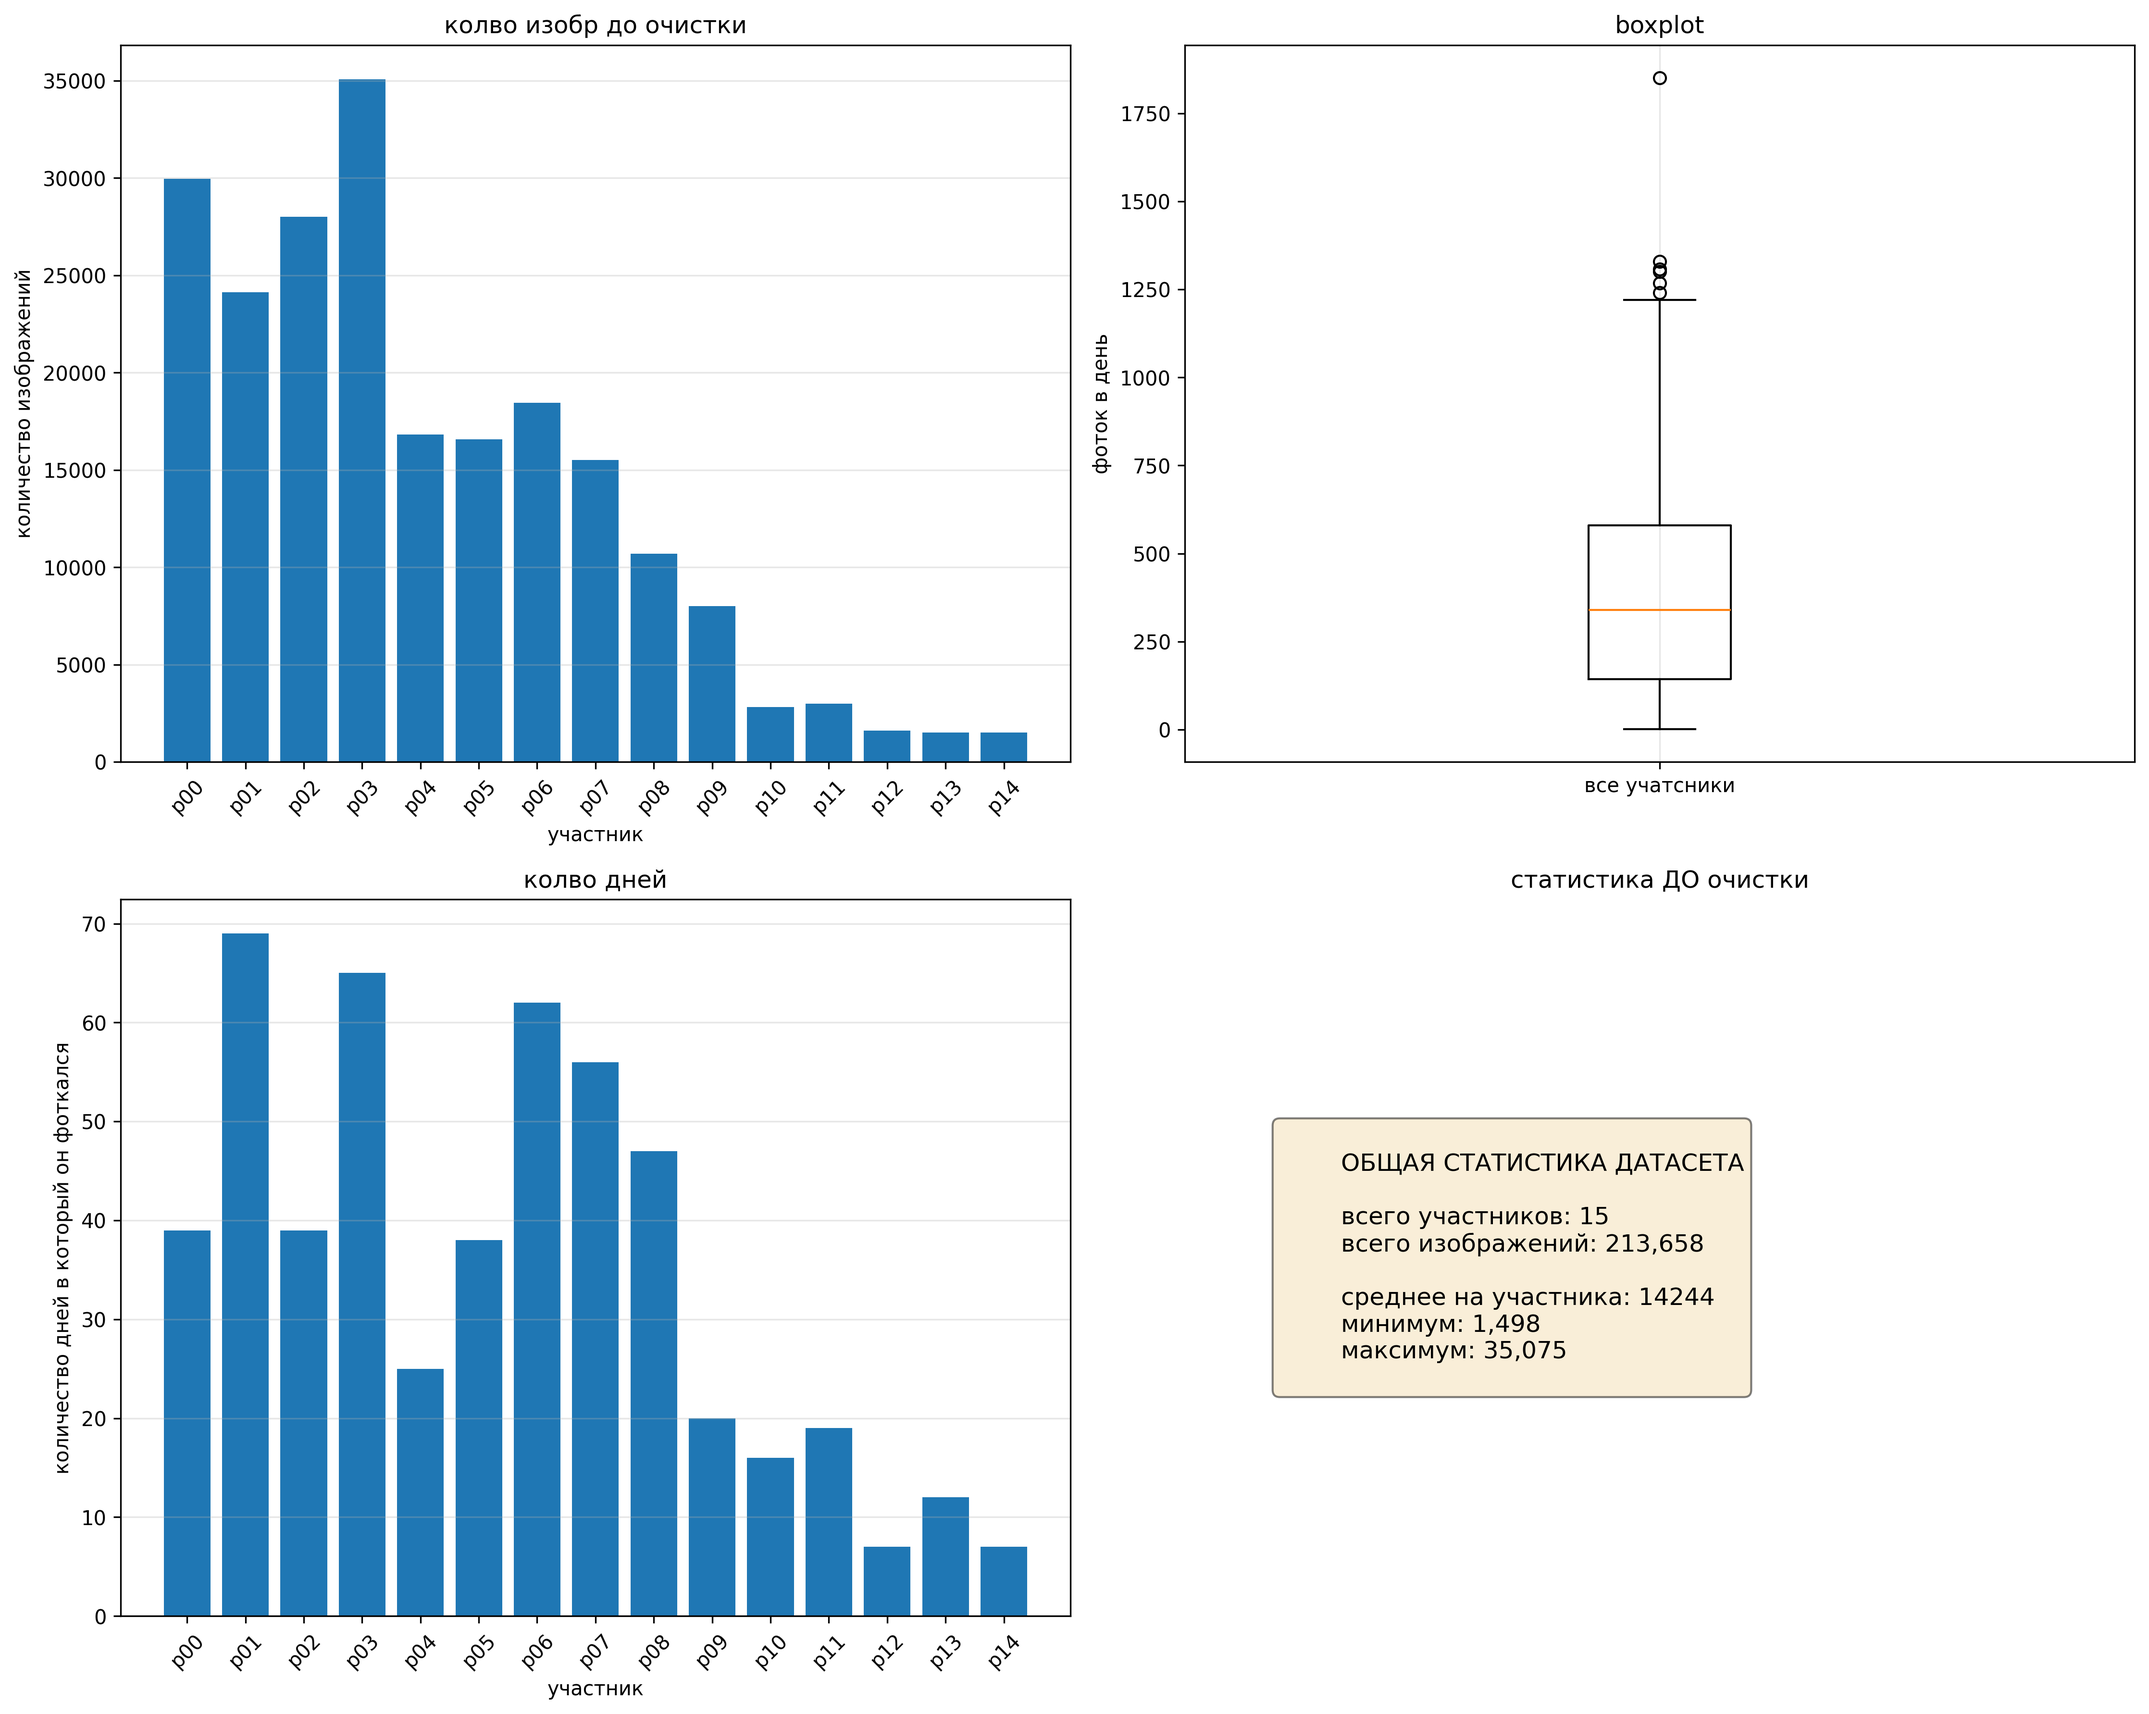
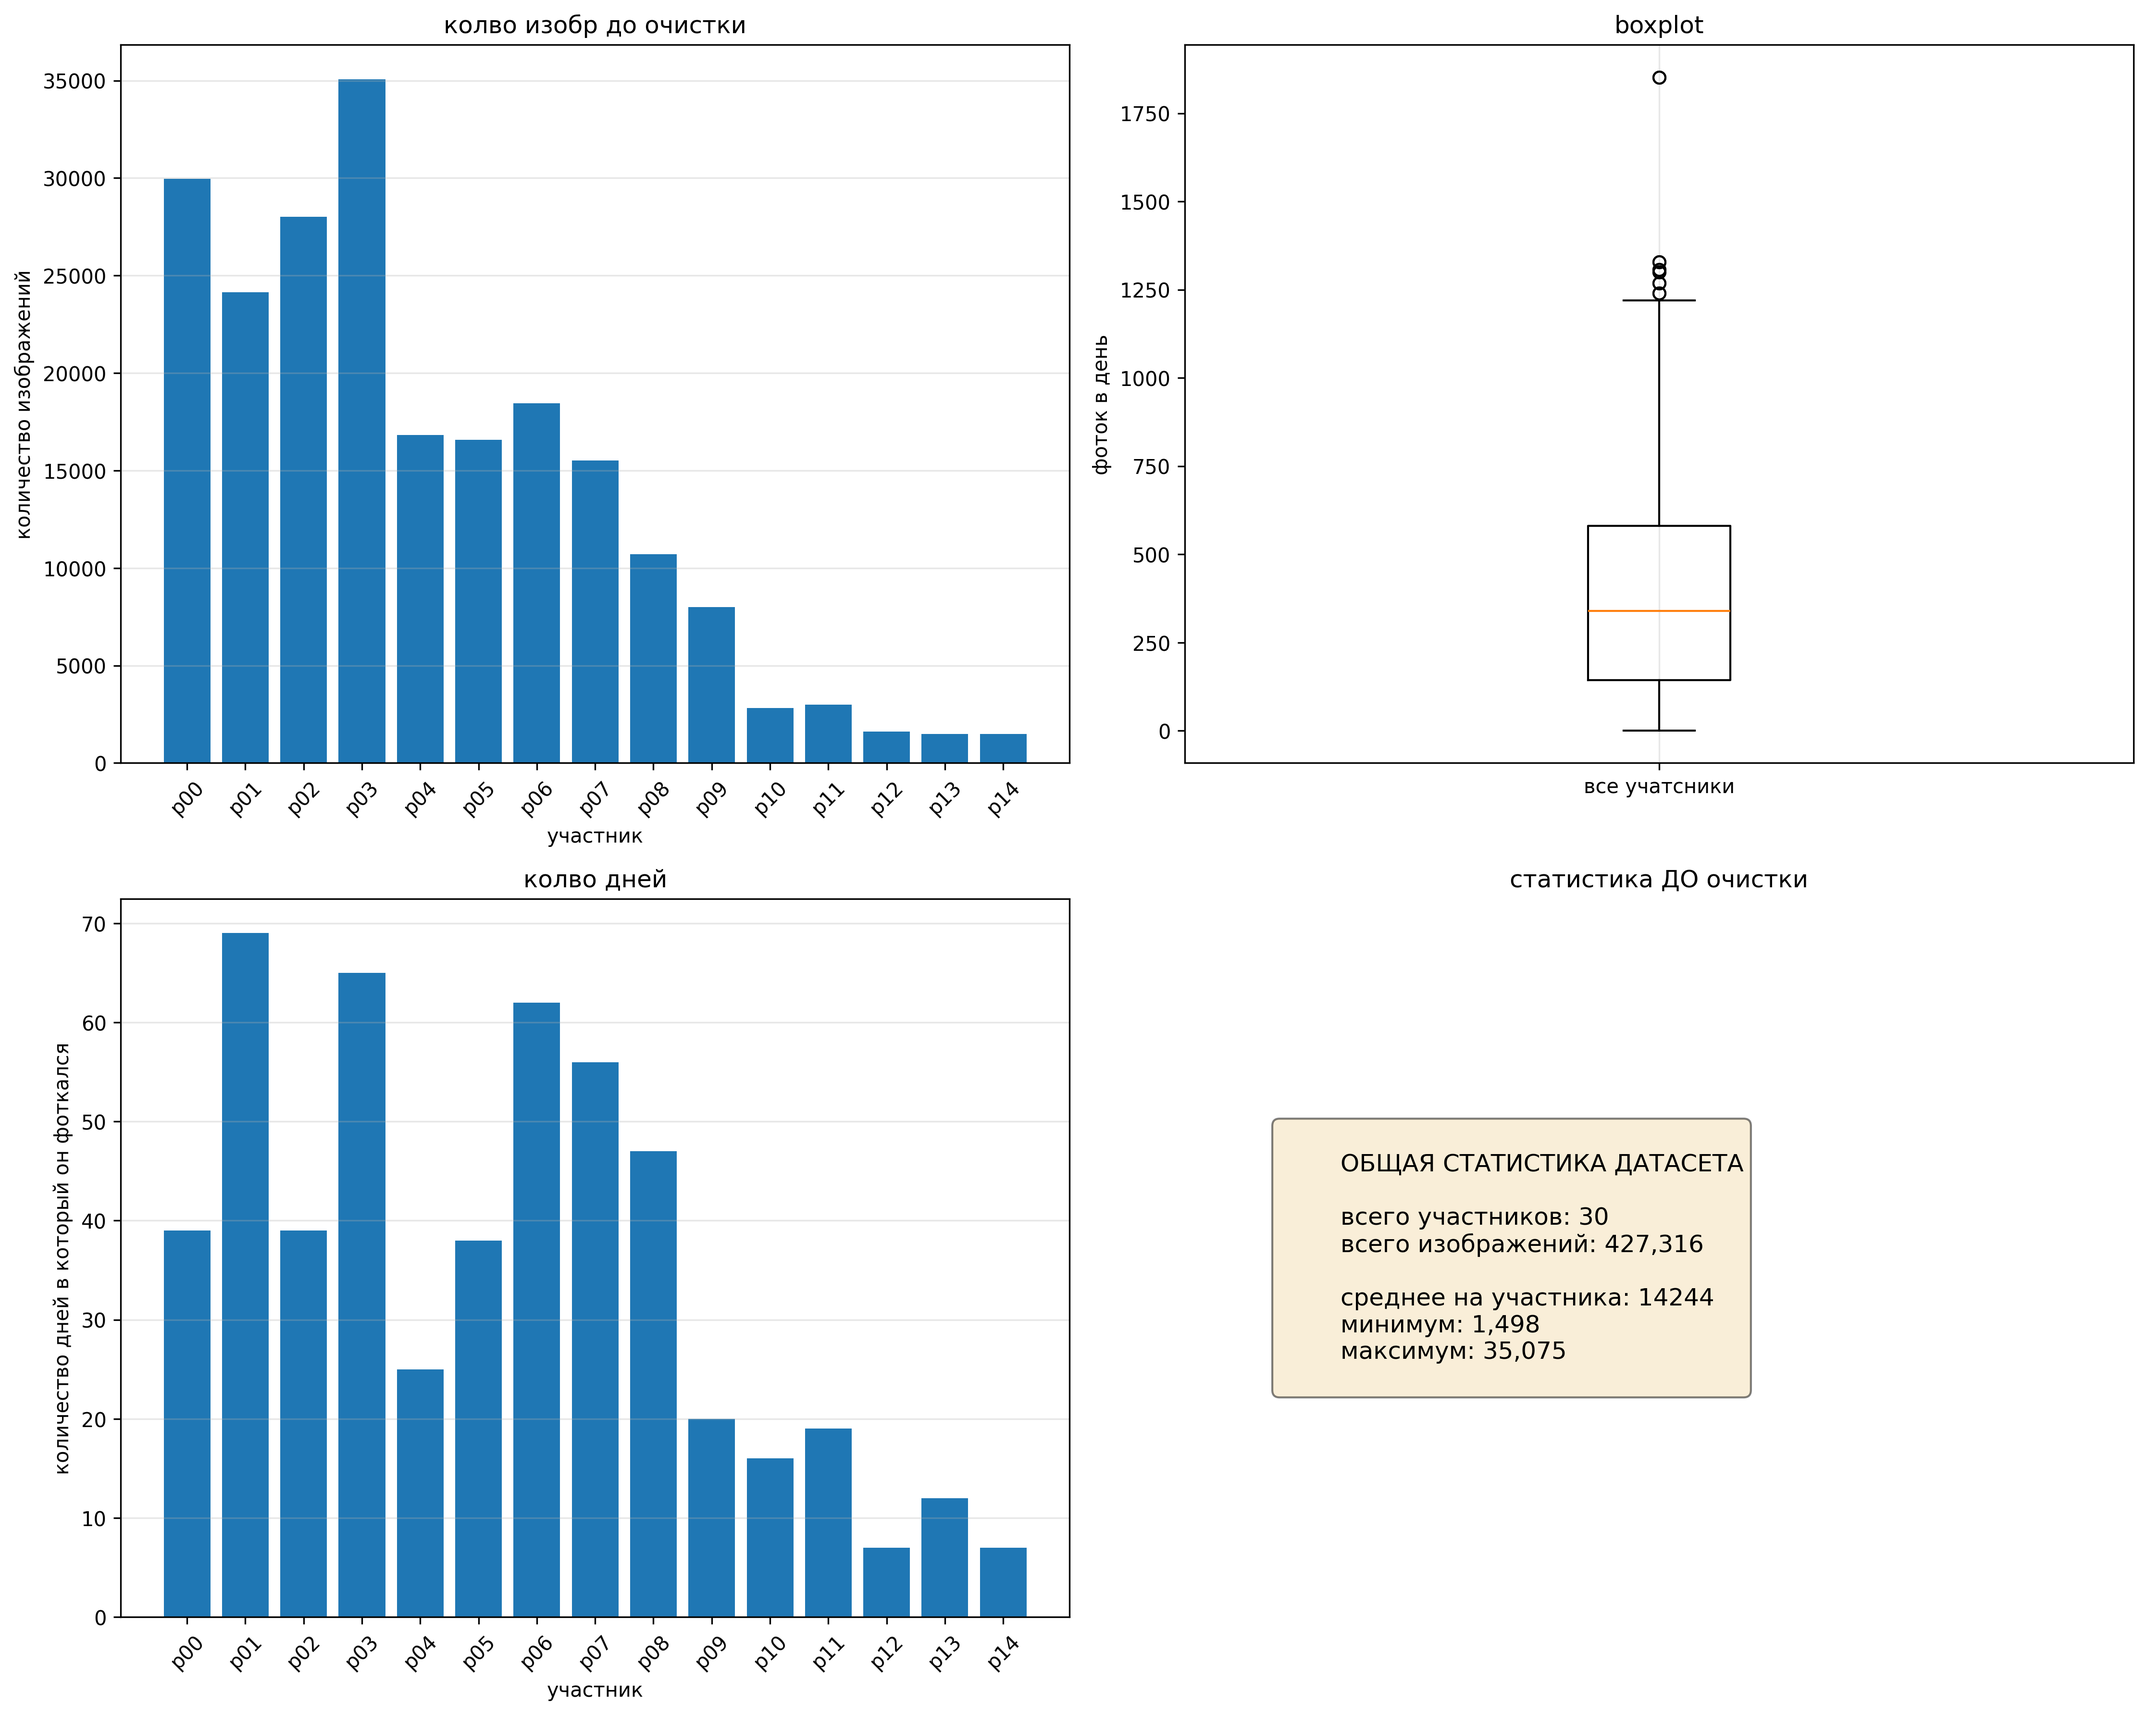
upd

diff --git a/src/model/architecture.py b/src/model/architecture.py
@@ -1,0 +1,210 @@
+import torch
+import torch.nn as nn
+import torch.optim as optim
+from torch.utils.data import Dataset, DataLoader, random_split
+from torchvision import transforms, models
+from PIL import Image
+import os
+from tqdm import tqdm
+import time
+
+class MPIIGazeDataset(Dataset):
+    def __init__(self, data_dir, transform=None):
+        self.data_dir = data_dir
+        self.transform = transform
+        self.samples = []
+        
+        # Загружаем все данные
+        for participant in sorted(os.listdir(data_dir)):
+            participant_dir = os.path.join(data_dir, participant)
+            if not os.path.isdir(participant_dir):
+                continue
+                
+            for day in sorted(os.listdir(participant_dir)):
+                if not day.startswith('day'):
+                    continue
+                    
+                day_dir = os.path.join(participant_dir, day)
+                annotation_file = os.path.join(day_dir, 'annotation.txt')
+                
+                if not os.path.exists(annotation_file):
+                    continue
+                
+                # Читаем аннотации
+                with open(annotation_file, 'r') as f:
+                    annotations = f.readlines()
+                
+                # Загружаем изображения
+                for img_file in sorted(os.listdir(day_dir)):
+                    if not img_file.endswith('.jpg'):
+                        continue
+                    
+                    frame_idx = int(img_file.split('.')[0]) - 1
+                    if frame_idx >= len(annotations):
+                        continue
+                    
+                    values = annotations[frame_idx].strip().split()
+                    if len(values) < 2:
+                        continue
+                    
+                    yaw = float(values[-2])
+                    pitch = float(values[-1])
+                    
+                    img_path = os.path.join(day_dir, img_file)
+                    self.samples.append((img_path, yaw, pitch))
+        
+        print(f"Loaded {len(self.samples)} samples")
+    
+    def __len__(self):
+        return len(self.samples)
+    
+    def __getitem__(self, idx):
+        img_path, yaw, pitch = self.samples[idx]
+        image = Image.open(img_path).convert('RGB')
+        
+        if self.transform:
+            image = self.transform(image)
+        
+        label = torch.tensor([yaw, pitch], dtype=torch.float32)
+        return image, label
+
+
+def train_epoch(model, loader, criterion, optimizer, device):
+    model.train()
+    total_loss = 0
+    
+    pbar = tqdm(loader, desc='Training', leave=False)
+    for images, labels in pbar:
+        images, labels = images.to(device), labels.to(device)
+        
+        optimizer.zero_grad()
+        outputs = model(images)
+        loss = criterion(outputs, labels)
+        loss.backward()
+        optimizer.step()
+        
+        total_loss += loss.item()
+        pbar.set_postfix({'loss': f'{loss.item():.4f}'})
+    
+    return total_loss / len(loader)
+
+
+def test_epoch(model, loader, criterion, device):
+    model.eval()
+    total_loss = 0
+    
+    pbar = tqdm(loader, desc='Testing', leave=False)
+    with torch.no_grad():
+        for images, labels in pbar:
+            images, labels = images.to(device), labels.to(device)
+            outputs = model(images)
+            loss = criterion(outputs, labels)
+            total_loss += loss.item()
+            pbar.set_postfix({'loss': f'{loss.item():.4f}'})
+    
+    return total_loss / len(loader)
+
+
+def main():
+    # Параметры
+    DATA_DIR = 'MPIIGaze/Data/Original'
+    BATCH_SIZE = 32
+    NUM_EPOCHS = 10
+    LEARNING_RATE = 0.001
+    TRAIN_SPLIT = 0.8
+    
+    print("="*60)
+    print("MPII Gaze Estimation Training")
+    print("="*60)
+    
+    # Трансформации
+    transform = transforms.Compose([
+        transforms.Resize((224, 224)),
+        transforms.ToTensor(),
+        transforms.Normalize(mean=[0.485, 0.456, 0.406], 
+                           std=[0.229, 0.224, 0.225])
+    ])
+    
+    # Загружаем датасет
+    print("\n[1/5] Loading dataset...")
+    dataset = MPIIGazeDataset(DATA_DIR, transform=transform)
+    
+    # Разделяем на train/test
+    train_size = int(TRAIN_SPLIT * len(dataset))
+    test_size = len(dataset) - train_size
+    train_dataset, test_dataset = random_split(dataset, [train_size, test_size])
+    
+    print(f"Train: {train_size} samples, Test: {test_size} samples")
+    
+    # DataLoader
+    train_loader = DataLoader(train_dataset, batch_size=BATCH_SIZE, 
+                             shuffle=True, num_workers=4)
+    test_loader = DataLoader(test_dataset, batch_size=BATCH_SIZE, 
+                            shuffle=False, num_workers=4)
+    
+    # Модель
+    print("\n[2/5] Building model...")
+    device = torch.device('cuda' if torch.cuda.is_available() else 'cpu')
+    print(f"Device: {device}")
+    
+    model = models.resnet50(pretrained=True)
+    model.fc = nn.Linear(model.fc.in_features, 2)  # 2 выхода: yaw, pitch
+    model = model.to(device)
+    
+    # Оптимизатор и лосс
+    criterion = nn.MSELoss()
+    optimizer = optim.Adam(model.parameters(), lr=LEARNING_RATE)
+    
+    # Обучение
+    print("\n[3/5] Training...")
+    print("="*60)
+    
+    best_test_loss = float('inf')
+    
+    for epoch in tqdm(range(NUM_EPOCHS), desc='Epochs'):
+        start_time = time.time()
+        
+        # Train
+        train_loss = train_epoch(model, train_loader, criterion, optimizer, device)
+        
+        # Test
+        test_loss = test_epoch(model, test_loader, criterion, device)
+        
+        epoch_time = time.time() - start_time
+        
+        # Логирование
+        tqdm.write(f"\nEpoch {epoch+1}/{NUM_EPOCHS}")
+        tqdm.write(f"  Train Loss: {train_loss:.6f}")
+        tqdm.write(f"  Test Loss:  {test_loss:.6f}")
+        tqdm.write(f"  Time: {epoch_time:.2f}s")
+        tqdm.write("-"*60)
+        
+        # Сохраняем лучшую модель
+        if test_loss < best_test_loss:
+            best_test_loss = test_loss
+            torch.save(model.state_dict(), 'best_model.pth')
+    
+    # Финальное тестирование
+    print("\n[4/5] Final testing...")
+    final_test_loss = test_epoch(model, test_loader, criterion, device)
+    print(f"Final Test Loss: {final_test_loss:.6f}")
+    
+    # Сохранение модели
+    print("\n[5/5] Saving model...")
+    torch.save({
+        'model_state_dict': model.state_dict(),
+        'optimizer_state_dict': optimizer.state_dict(),
+        'test_loss': final_test_loss,
+    }, 'gaze_model_final.pth')
+    
+    print("\n" + "="*60)
+    print("Training completed!")
+    print(f"Best test loss: {best_test_loss:.6f}")
+    print(f"Models saved:")
+    print(f"  - best_model.pth (best during training)")
+    print(f"  - gaze_model_final.pth (final model)")
+    print("="*60)
+
+
+if __name__ == '__main__':
+    main()

diff --git a/src/main.py b/src/main.py
@@ -1,20 +1,14 @@
-from dataset_scripts.analyze import MPIIGazeAnalyzer
+# from analyze.analyze import Analyzer
 
-def main():
-    dataset_path = input("введите путь к MPIIGaze (enter for defaultpath): ").strip()
+# def main():
+#     dataset_path = input("введите путь к MPIIGaze (enter for defaultpath): ").strip()
     
-    if not dataset_path:
-        print("default path ./MPIIGaze")
-        dataset_path = "./MPIIGaze"
+#     if not dataset_path:
+#         print("default path ./MPIIGaze")
+#         dataset_path = "./MPIIGaze"
     
-    analyzer = MPIIGazeAnalyzer(dataset_path)
-    analyzer.scan()
-    analyzer.analyze_annotations(1000)
-    analyzer.analyze_quality(1000)
-    analyzer.plot_do()
-    analyzer.normalize_and_clean()
-    analyzer.plot_posle()
-    analyzer.report_autogeneration()
+#     analyzer = Analyzer(dataset_path)
+#     analyzer.activate()
 
-if __name__ == "__main__":
-    main()
+# if __name__ == "__main__":
+#     main()

diff --git a/src/analyze/analyze.py b/src/analyze/analyze.py
@@ -9,7 +9,7 @@ import matplotlib.pyplot as plt
 
 from datetime import datetime
 
-class MPIIGazeAnalyzer:
+class Analyzer:
     def __init__(self, dataset_path):
         self.dataset_path = Path(dataset_path)
         self.persons = []
@@ -457,3 +457,14 @@ class MPIIGazeAnalyzer:
             f.write("*отчет сгенерирован автоматически*")
 
         return report_path
+    
+
+    def activate(self):
+        self.scan()
+        self.scan()
+        self.analyze_annotations(500)
+        self.analyze_quality(10000)
+        self.plot_do()
+        self.normalize_and_clean()
+        self.plot_posle()
+        self.report_autogeneration()

diff --git a/src/dataset_report.md b/src/dataset_report.md
@@ -1,6 +1,6 @@
 # отчет по анализу датасета MPIIGaze
 
-**дата создания:** 2026-01-27 17:32:33
+**дата создания:** 2026-01-28 13:25:31
 
 ---
 
@@ -10,8 +10,8 @@ MPIIGaze dataset that contains 213,659 images that we collected from 15 particip
 
 ### 2.1 общая информация
 
-- **количество участников:** 15
-- **общее количество фото:** 213,658
+- **количество участников:** 30
+- **общее количество фото:** 427,316
 - **среднее количество изображений на участника:** 14244
 
 ### 2.2 структура датасета
@@ -63,16 +63,16 @@ MPIIGaze/
 ![качество изображений](02_before_cleaning_quality.png)
 
 **статистика яркости:**
-- среднее: 3.98
-- медиана: 3.67
-- стд. откл.: 2.11
-- мин/макс: 0.47 / 14.06
+- среднее: 3.69
+- медиана: 3.21
+- стд. откл.: 2.36
+- мин/макс: 0.11 / 22.79
 
 **статистика контраста:**
-- среднее: 21.41
-- седиана: 21.97
-- стд. откл.: 8.04
-- мин/сакс: 4.49 / 48.85
+- среднее: 19.98
+- седиана: 19.71
+- стд. откл.: 8.39
+- мин/сакс: 1.67 / 57.21
 
 ## 4. очистка и нормализация датасета
 
@@ -86,11 +86,11 @@ MPIIGaze/
 
 ### 4.2 результаты очистки
 
-- **удалено из-за низкой яркости:** 50
-- **удалено из-за высокой яркости:** 50
-- **удалено из-за низкого контраста:** 100
-- **всего удалено:** 157
-- **осталось изображений:** 843
+- **удалено из-за низкой яркости:** 500
+- **удалено из-за высокой яркости:** 499
+- **удалено из-за низкого контраста:** 999
+- **всего удалено:** 1504
+- **осталось изображений:** 8496
 
 ## 5. анализ датасета ПОСЛЕ очистки
 
